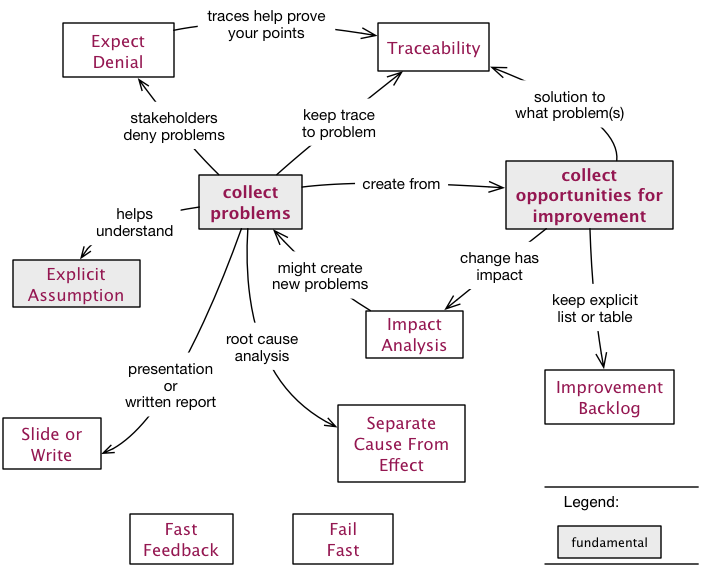
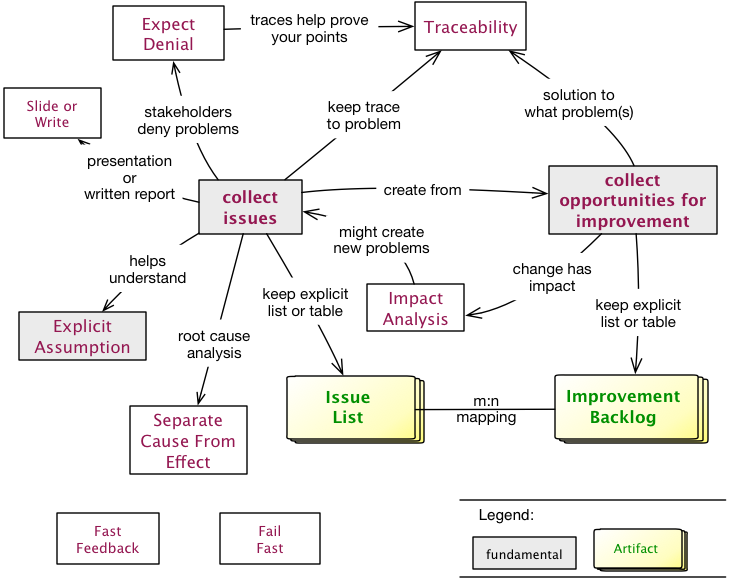
Publish of github pages from Gradle

diff --git a/patterns/crosscutting/crosscutting-patterns-conceptmap/crosscutting-patterns-conceptmap.html b/patterns/crosscutting/crosscutting-patterns-conceptmap/crosscutting-patterns-conceptmap.html
@@ -1,14 +1,16 @@
 <map name="GraffleExport">
-	<area shape=rect coords="378,23,489,70" href="#Traceability">
-	<area shape=rect coords="3,418,100,468" href="#Slide-Or-Write">
-	<area shape=rect coords="338,405,465,482" href="#Separate-Cause-From-Effect">
-	<area shape=rect coords="129,513,232,564" href="#Fast-Feedback">
-	<area shape=rect coords="293,513,393,564" href="#Fail-Fast">
-	<area shape=rect coords="545,369,674,424" href="#Improvement-Backlog">
-	<area shape=rect coords="12,260,139,307" href="#Explicit-Assumption">
-	<area shape=rect coords="62,23,173,77" href="#Expect-Denial">
-	<area shape=rect coords="365,310,463,357" href="#Impact-Analysis">
-	<area shape=rect coords="505,160,673,228" href="#collect-opportunities-for-improvement">
-	<area shape=rect coords="199,174,302,228" href="#Collect-Problems">
+	<area shape=poly coords="600,529,675,529,681,532,681,531,684,533,684,532,687,535,687,568,681,571,606,571,600,569,597,568,594,566,594,532,600,529" href="#Issue-List">
+	<area shape=poly coords="295,376,406,376,415,381,415,379,419,383,419,381,424,385,424,439,415,443,303,443,295,441,290,439,286,435,286,381,295,376" href="#Issue-List">
+	<area shape=rect coords="415,3,526,50" href="#Traceability">
+	<area shape=rect coords="3,88,100,138" href="#Slide-Or-Write">
+	<area shape=rect coords="129,406,246,474" href="#Separate-Cause-From-Effect">
+	<area shape=rect coords="56,513,159,564" href="#Fast-Feedback">
+	<area shape=rect coords="220,513,320,564" href="#Fail-Fast">
+	<area shape=poly coords="564,375,688,375,698,379,698,377,703,381,703,379,707,384,707,439,698,443,573,443,564,441,559,439,554,435,554,379,564,375" href="#Improvement-Backlog">
+	<area shape=rect coords="19,313,146,360" href="#Explicit-Assumption">
+	<area shape=rect coords="113,6,224,60" href="#Expect-Denial">
+	<area shape=rect coords="367,284,464,331" href="#Impact-Analysis">
+	<area shape=rect coords="549,166,716,234" href="#collect-opportunities-for-improvement">
+	<area shape=rect coords="198,180,301,234" href="#Collect-Issues">
 </map>
 <img border=0 src="file:///Users/gernotstarke/projects/aim42/src/main/asciidoc/patterns/crosscutting/crosscutting-patterns-conceptmap/crosscutting-patterns-conceptmap.png" usemap="#GraffleExport">

diff --git a/index.html b/index.html
@@ -7532,7 +7532,7 @@ evaluate.adoc or improve.adoc</p>
 </div>
 <div id="footer">
 <div id="footer-text">
-Last updated 2014-08-23 08:05:23 UTC
+Last updated 2014-08-23 08:14:17 UTC
 </div>
 </div>
 </body>
